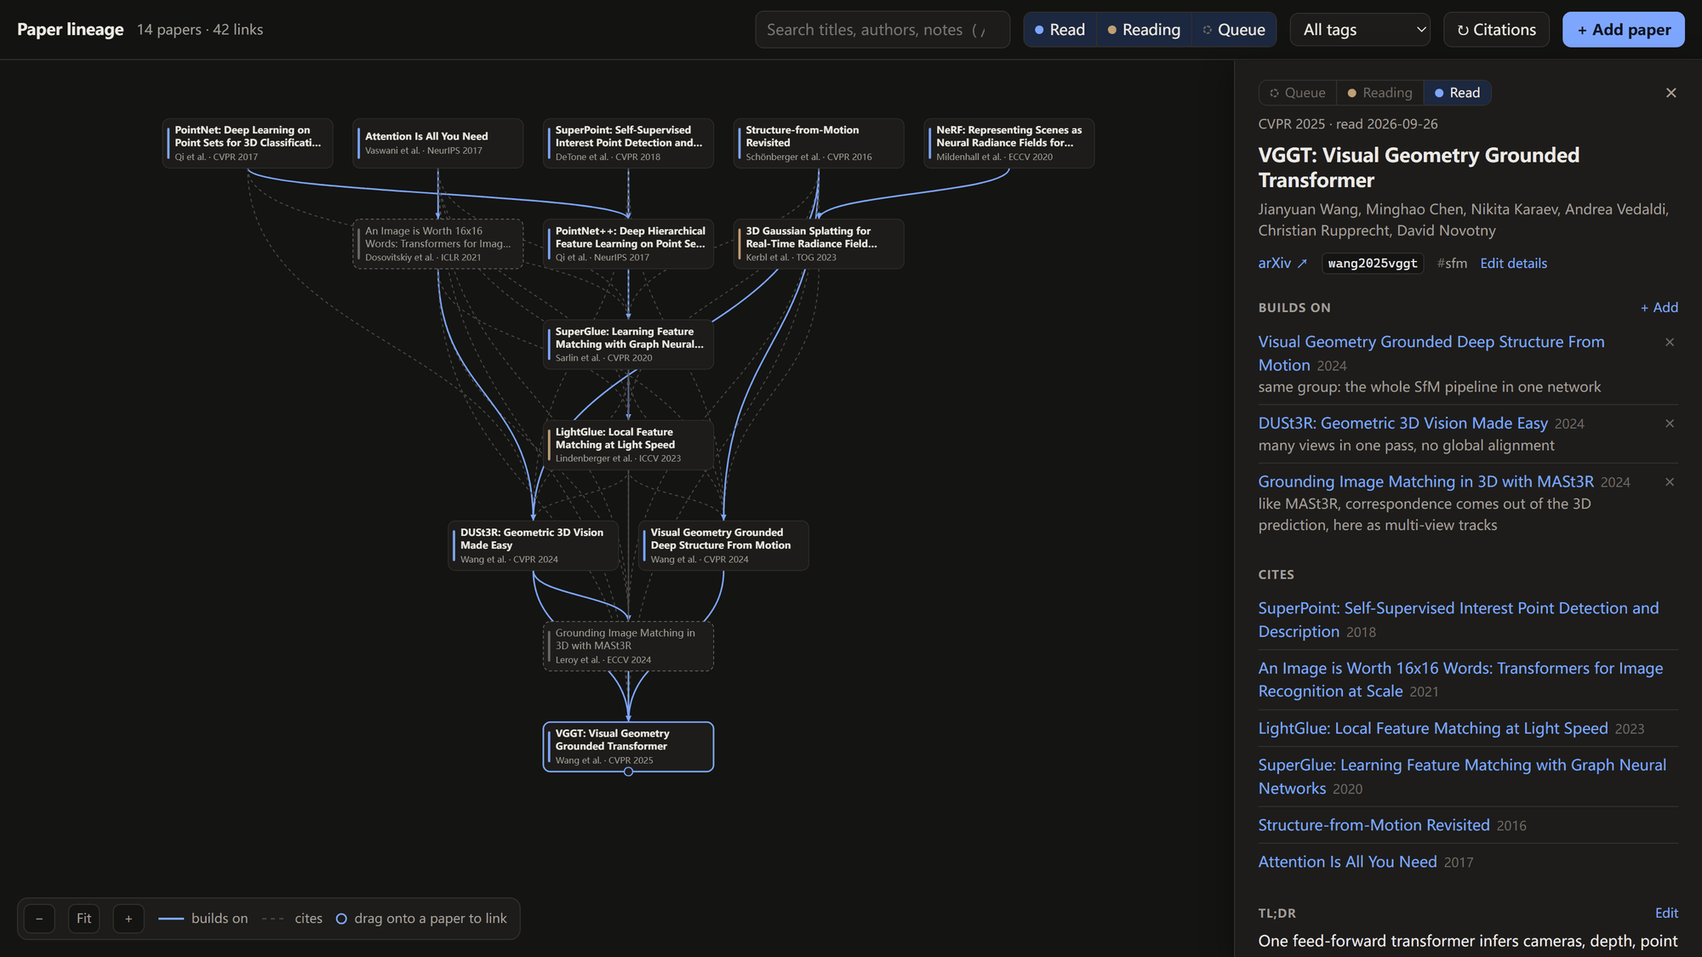
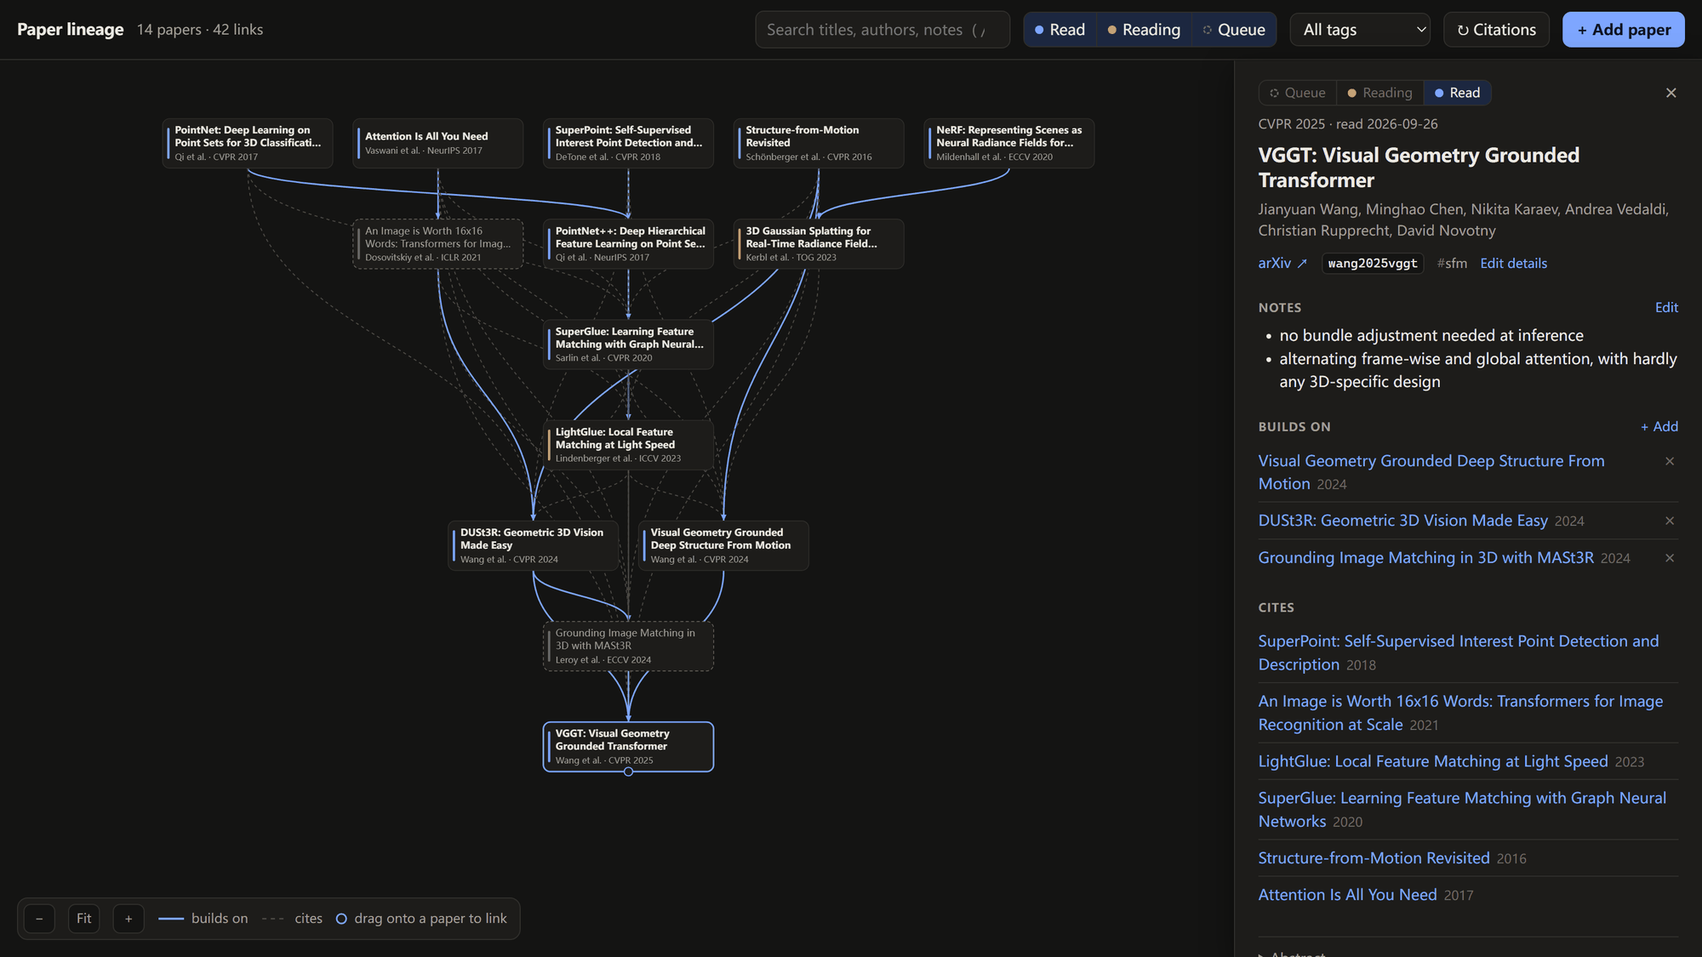
Link without reasons, drop TL;DR, notes first
- builds_on is a plain list of keys (builds_on+=key / builds_on-=key);
  files written by 1.0 still read.
- Dragging a card onto another links at once: the older paper is the
  source, and the toast offers Flip and Undo.
- No TL;DR section; the panel shows notes above the lineage lists.
- The skill leaves notes to the user unless asked.
- README, screenshots and tests updated; version 1.1.0.

Changed region(s): [[0.744, 0.6222, 0.992, 1.0], [0.744, 0.3111, 0.992, 0.5911], [0.961, 0.4356, 0.992, 0.4667]]

diff --git a/pp.html b/pp.html
@@ -120,9 +120,6 @@ aside h3 { display: flex; align-items: baseline; justify-content: space-between;
 .rel li { display: grid; grid-template-columns: 1fr auto; gap: 0 8px; padding: 6px 0; border-top: 1px solid var(--line); }
 .rel li:first-child { border-top: 0; }
 .rel .yr { margin-left: 6px; color: var(--faint); font-size: 12px; font-variant-numeric: tabular-nums; }
-.rel .why { display: block; color: var(--muted); font-size: 13px; }
-.rel .why[data-act] { cursor: text; border-radius: 4px; }
-.rel .why[data-act]:hover { color: var(--ink); background: var(--bg); }
 .x { align-self: start; border: 0; background: none; padding: 0 2px; color: var(--faint); font-size: 17px; line-height: 1.2; cursor: pointer; }
 .x:hover { color: var(--danger); }
 .notes p, .notes ul, .notes ol, .notes blockquote { margin: 6px 0; }
@@ -289,7 +286,6 @@ function build(data) {
   }
   edges.forEach(e => {
     e.el = el('path', {class: e.kind === 'builds_on' ? 'edge bo' : 'edge', d: curve(e)}, $('#edges'));
-    if (e.why) el('title', {}, e.el).textContent = e.why;
   });
   nodes.forEach(n => {
     const g = n.el = el('g', {class: 'node ' + n.status}, $('#nodes'));
@@ -495,13 +491,13 @@ function md(src) {
 function sections(n) {  // [[heading, field, text], ...] of the markdown body
   const p = n.body.replace(/^\s*# .*\n?/, '').split(/^## +(.*)$/m), out = [];
   for (let i = 1; i < p.length; i += 2) out.push([p[i].trim(), fold(p[i]), (p[i + 1] || '').trim()]);
-  if (EDIT) for (const [f, h] of [['tldr', 'TL;DR'], ['notes', 'Notes']]) {  // always offer these two
+  if (EDIT && !out.some(s => s[1] === 'notes')) {  // always offer a Notes section
     const i = out.findIndex(s => s[1] === 'abstract');
-    if (!out.some(s => s[1] === f)) out.splice(i < 0 ? out.length : i, 0, [h, f, '']);
+    out.splice(i < 0 ? out.length : i, 0, ['Notes', 'notes', '']);
   }
   return [p[0].trim(), out];
 }
-function notes(n) {
+function notes(n) {  // -> [html of the notes, html of the abstract]
   const [lead, secs] = sections(n);
   let html = md(lead), abstract = '', any = false;
   for (const [h, f, c] of secs) {
@@ -513,22 +509,19 @@ function notes(n) {
       : `<p class="placeholder" data-act="edit" data-field="${esc(f)}">Add ${esc(h)}…</p>`}</section>`;
   }
   if (!any && !EDIT) html = `<p class="empty">No notes yet. <code>pp set ${esc(n.id)} notes+="…"</code></p>`;
-  return html + abstract;
+  return [html, abstract];
 }
 function show(n, {keep = false} = {}) {
   const top = panel.scrollTop;
   sel = n || null; selId = sel && sel.id;
   history.replaceState(null, '', n ? '#' + n.id : location.pathname + location.search);
   if (!n) { panel.classList.remove('open'); return update(); }
-  const bo = (e, other) => {
-    const act = EDIT ? ` data-act="why" data-from="${esc(e.a.id)}" data-to="${esc(e.b.id)}"` : '';
-    const why = e.why || (EDIT ? '<i>add a reason</i>' : '');
-    return item(other, why ? `<span class="why"${act}>${e.why ? esc(e.why) : why}</span>` : '',
-      EDIT ? `<button class="x" data-act="unlink" data-from="${esc(e.a.id)}" data-to="${esc(e.b.id)}" title="Remove this link">&times;</button>` : '');
-  };
+  const bo = (e, other) => item(other, '',
+    EDIT ? `<button class="x" data-act="unlink" data-from="${esc(e.a.id)}" data-to="${esc(e.b.id)}" title="Remove this link">&times;</button>` : '');
   const item = (m, extra = '', x = '') => `<li><div><a href="#${esc(m.id)}" data-go="${esc(m.id)}">${esc(m.title)}</a><span class="yr">${esc(m.year || '')}</span>${extra}</div>${x}</li>`;
   const sec = (title, list, action = '') => list.length || action ? `<h3>${title}${action}</h3><ul>${list.join('')}</ul>` : '';
   const kind = (es, k) => es.filter(e => e.kind === k);
+  const [text, abstract] = notes(n);
   const authors = n.authors.length > 8 ? n.authors.slice(0, 8).join(', ') + `, +${n.authors.length - 8}` : n.authors.join(', ');
   const status = EDIT
     ? `<div class="seg small" role="group" aria-label="Status">${['queue', 'reading', 'read'].map(s =>
@@ -540,8 +533,9 @@ function show(n, {keep = false} = {}) {
     <h2>${esc(n.title)}</h2>
     <div class="authors">${esc(authors)}</div>
     <div class="links">${n.url ? `<a href="${esc(n.url)}" target="_blank" rel="noopener">${n.arxiv ? 'arXiv' : n.doi ? 'DOI' : 'Link'} &#8599;</a>` : ''}<code>${esc(n.id)}</code>${n.tags.map(t => `<span class="tag">${esc(t)}</span>`).join('')}${EDIT ? '<button class="link-btn" data-act="details">Edit details</button>' : ''}</div>
+    <div class="notes">${text}</div>
     <div class="rel">${sec('Builds on', kind(n.in, 'builds_on').map(e => bo(e, e.a)), EDIT ? '<button class="link-btn" data-act="add-link">+ Add</button>' : '')}${sec('Built upon by', kind(n.out, 'builds_on').map(e => bo(e, e.b)))}${sec('Cites', kind(n.in, 'cites').map(e => item(e.a)))}${sec('Cited by', kind(n.out, 'cites').map(e => item(e.b)))}</div>
-    <div class="notes">${notes(n)}</div>
+    ${abstract ? `<div class="notes">${abstract}</div>` : ''}
     ${EDIT ? '<div class="danger-zone"><button class="btn danger" data-act="delete">Delete paper</button></div>' : ''}`;
   panel.classList.add('open');
   panel.scrollTop = keep ? top : 0;
@@ -563,7 +557,6 @@ panel.addEventListener('click', e => {
   else if (d.act === 'save') saveSection(n, d.field);
   else if (d.act === 'details') editDetails(n);
   else if (d.act === 'add-link') addLink(n);
-  else if (d.act === 'why') linkPapers(from, to);
   else if (d.act === 'unlink') unlink(from, to);
   else if (d.act === 'delete') remove(n);
 });
@@ -587,14 +580,14 @@ async function api(op, body = {}) {
   } finally { document.body.classList.remove('busy'); }
 }
 let toastTimer = 0;
-function toast(msg, {error = false, action, onAction} = {}) {
+function toast(msg, {error = false, actions = []} = {}) {  // actions: [[label, fn], ...]
   const t = $('#toast');
   t.className = error ? 'error' : '';
-  t.innerHTML = `<span>${esc(msg)}</span>` + (action ? `<button>${esc(action)}</button>` : '');
-  if (action) t.querySelector('button').onclick = () => { t.hidden = true; onAction(); };
+  t.innerHTML = `<span>${esc(msg)}</span>` + actions.map(([label]) => `<button>${esc(label)}</button>`).join('');
+  t.querySelectorAll('button').forEach((b, i) => b.onclick = () => { t.hidden = true; actions[i][1](); });
   t.hidden = false;
   clearTimeout(toastTimer);
-  toastTimer = setTimeout(() => t.hidden = true, error ? 9000 : action ? 7000 : 4000);
+  toastTimer = setTimeout(() => t.hidden = true, error ? 9000 : actions.length ? 7000 : 4000);
 }
 function ask({title, text = '', fields = [], ok = 'Save', danger = false}) {
   const d = $('#dlg');
@@ -659,37 +652,30 @@ async function editDetails(n) {
     if (await api('mv', {key: n.id, new: key}) && p[n.id]) { p[key] = p[n.id]; delete p[n.id]; storePos(p); }
   }
 }
-async function linkPapers(a, b) {  // drag from a onto b, or edit an existing reason
-  const short = m => m.title.length > 48 ? m.title.slice(0, 46) + '…' : m.title;
-  const old = [...b.in, ...a.in].find(e => e.kind === 'builds_on' && (e.a === a && e.b === b || e.a === b && e.b === a));
-  const newerFirst = old ? old.b === a : (a.year || 0) > (b.year || 0);
-  const v = await ask({title: old ? 'Edit link' : 'New lineage link', ok: old ? 'Save' : 'Link', fields: [
-    {name: 'dir', label: 'Direction', value: newerFirst ? 'ab' : 'ba', options: [
-      ['ba', `“${short(b)}” builds on “${short(a)}”`], ['ab', `“${short(a)}” builds on “${short(b)}”`]]},
-    {name: 'why', label: 'Why? One short reason', value: old?.why || '', required: true,
-     placeholder: 'adds X to Y · replaces A with B'}]});
-  if (!v) return;
-  const [src, dst] = v.dir === 'ba' ? [a, b] : [b, a];
-  const pairs = [`builds_on.${src.id}=${v.why.trim()}`];
-  if (old && old.b !== dst) {  // direction flipped: drop the old link first
-    await api('set', {key: old.b.id, pairs: [`builds_on.${old.a.id}=`]});
-  }
-  api('set', {key: dst.id, pairs});
+const short = m => m.title.length > 48 ? m.title.slice(0, 46) + '…' : m.title;
+async function linkPapers(a, b) {  // a was dragged onto b: the older one is the source, or else a
+  const old = edges.find(e => e.kind === 'builds_on' && (e.a === a && e.b === b || e.a === b && e.b === a));
+  const [src, dst] = old ? [old.a, old.b] : (a.year || 0) > (b.year || 0) ? [b, a] : [a, b];
+  if (!old && !await api('set', {key: dst.id, pairs: [`builds_on+=${src.id}`]})) return;
+  toast(`${old ? 'Already linked' : 'Linked'}: “${short(dst)}” builds on “${short(src)}”`, {actions: [
+    ['Flip', () => flip(src.id, dst.id)],
+    ...old ? [] : [['Undo', () => api('set', {key: dst.id, pairs: [`builds_on-=${src.id}`]})]]]});
+}
+async function flip(src, dst) {  // "dst builds on src" becomes "src builds on dst"
+  if (await api('set', {key: dst, pairs: [`builds_on-=${src}`]})) api('set', {key: src, pairs: [`builds_on+=${dst}`]});
 }
 async function addLink(n) {
   const taken = new Set(n.in.filter(e => e.kind === 'builds_on').map(e => e.a));
   const others = nodes.filter(m => m !== n && !taken.has(m)).sort((a, b) => a.title.localeCompare(b.title));
   if (!others.length) return toast('No other papers to link to.');
   const v = await ask({title: 'This paper builds on…', ok: 'Link', fields: [
-    {name: 'src', label: 'Paper', options: others.map(m => [m.id, `${m.title}${where(m) ? ` (${where(m)})` : ''}`])},
-    {name: 'why', label: 'Why? One short reason', required: true, placeholder: 'adds X to Y · replaces A with B'}]});
-  if (v) api('set', {key: n.id, pairs: [`builds_on.${v.src}=${v.why.trim()}`]});
+    {name: 'src', label: 'Paper', options: others.map(m => [m.id, `${m.title}${where(m) ? ` (${where(m)})` : ''}`])}]});
+  if (v) api('set', {key: n.id, pairs: [`builds_on+=${v.src}`]});
 }
 async function unlink(a, b) {
-  const why = b.in.find(e => e.kind === 'builds_on' && e.a === a)?.why || '?';
-  if (await api('set', {key: b.id, pairs: [`builds_on.${a.id}=`]}))
-    toast(`Removed: “${b.title}” builds on “${a.title}”`, {action: 'Undo',
-      onAction: () => api('set', {key: b.id, pairs: [`builds_on.${a.id}=${why}`]})});
+  if (await api('set', {key: b.id, pairs: [`builds_on-=${a.id}`]}))
+    toast(`Removed: “${short(b)}” builds on “${short(a)}”`, {actions: [
+      ['Undo', () => api('set', {key: b.id, pairs: [`builds_on+=${a.id}`]})]]});
 }
 async function remove(n) {
   const ok = await ask({title: 'Delete this paper?', ok: 'Delete', danger: true,

diff --git a/test.py b/test.py
@@ -27,14 +27,14 @@ S2_POINTNET = {"paperId": "d997", "title": "PointNet", "year": 2016, "abstract":
 
 def paper(key, title, year=2020, body="", **meta):
     pp.save(key, {"title": title, "authors": ["Ada Lovelace"], "year": year, "tags": [], "status": "queue", **meta},
-            f"# {title}\n\n## TL;DR\n\n\n## Notes\n\n{body}\n## Abstract\n\nAn abstract.\n")
+            f"# {title}\n\n## Notes\n\n{body}\n## Abstract\n\nAn abstract.\n")
 
 
 def reset():
     shutil.rmtree(pp.LIB, ignore_errors=True)
     paper("old2016base", "Base Method", 2016)
     paper("new2020next", "Next Method: Better", 2020, cites=["old2016base"],
-          builds_on={"old2016base": "adds X to the base"}, body="- see [write-up](../write-up.md)\n")
+          builds_on=["old2016base"], body="- see [write-up](../write-up.md)\n")
     (TMP / "write-up.md").write_text("my write-up", encoding="utf-8")
     (TMP / "secret.txt").write_text("not linked", encoding="utf-8")
 
@@ -47,9 +47,9 @@ def run(fn, **kw):
 
 class Format(unittest.TestCase):
     def test_roundtrip(self):
-        meta = {"title": "A: B #1", "authors": ["Charles R. Qi", "O'Brien, Jr."], "year": 2017, "venue": "CVPR",
+        meta = {"title": "A: B #1", "authors": ["Charles R. Qi", "O'Brien, Jr."], "year": 2017, "venue": "会议: # not a comment",
                 "arxiv": "2001.01230", "doi": "10.1109/CVPR.2017.16", "tags": [], "status": "read",
-                "read": "2026-09-25", "cites": ["x2016y"], "builds_on": {"x2016y": "把 A 变成 B: # not a comment"}}
+                "read": "2026-09-25", "cites": ["x2016y"], "builds_on": ["x2016y"]}
         self.assertEqual(pp.parse(pp.dump(meta, "# T\n\nbody\n")), (meta, "# T\n\nbody\n"))
 
     def test_hand_written_yaml(self):
@@ -117,9 +117,8 @@ class Library(unittest.TestCase):
 
     def test_sections(self):
         lib = pp.papers()
-        pp.assign("old2016base", ["tldr=One line.", "notes+=first", "notes+=- second", "notes+=third"], lib)
+        pp.assign("old2016base", ["notes+=first", "notes+=- second", "notes+=third"], lib)
         body = pp.papers()["old2016base"][1]
-        self.assertEqual(pp.section(body, "tldr"), "One line.")
         self.assertEqual(pp.section(body, "notes"), "- first\n- second\n- third")
         self.assertEqual(pp.section(body, "abstract"), "An abstract.")
         pp.assign("old2016base", ["notes="], lib)
@@ -132,20 +131,22 @@ class Library(unittest.TestCase):
         self.assertEqual((m["tags"], m["status"], m["read"], m["year"]), (["b", "c"], "read", pp.TODAY, 2017))
         self.assertTrue(body.startswith("# Renamed\n"))
         self.assertRaises(pp.Fail, pp.assign, "old2016base", ["status=done"], lib)
-        self.assertRaises(pp.Fail, pp.assign, "old2016base", ["builds_on.old=self"], lib)
+        self.assertRaises(pp.Fail, pp.assign, "old2016base", ["builds_on+=old"], lib)
 
     def test_builds_on(self):
         lib = pp.papers()
-        pp.assign("new2020next", ["builds_on.old=new reason"], lib)
-        self.assertEqual(pp.papers()["new2020next"][0]["builds_on"], {"old2016base": "new reason"})
-        pp.assign("new2020next", ["builds_on.old="], lib)
+        pp.assign("new2020next", ["builds_on-=old"], lib)
         self.assertNotIn("builds_on", pp.papers()["new2020next"][0])
+        pp.assign("new2020next", ["builds_on+=old,old2016base"], lib)
+        self.assertEqual(pp.papers()["new2020next"][0]["builds_on"], ["old2016base"])
+        paper("mid2018v1", "Written by pp 1.0", 2018, builds_on={"old2016base": "a reason"})  # the 1.0 format
+        self.assertEqual(pp.builds_on(pp.papers()["mid2018v1"][0]), ["old2016base"])
 
     def test_rename_and_remove(self):
         lib = pp.papers()
         pp.rename("old2016base", "old2017base", lib)
         m = pp.papers()["new2020next"][0]
-        self.assertEqual((m["cites"], m["builds_on"]), (["old2017base"], {"old2017base": "adds X to the base"}))
+        self.assertEqual((m["cites"], m["builds_on"]), (["old2017base"], ["old2017base"]))
         pp.remove("old2017base", lib)
         self.assertEqual(list(pp.papers()), ["new2020next"])
         self.assertFalse({"cites", "builds_on"} & set(pp.papers()["new2020next"][0]))

diff --git a/SKILL.md b/SKILL.md
@@ -1,40 +1,38 @@
 ---
 name: pp
-description: Keep the user's paper library with the `pp` CLI (plain text, one Markdown file per paper). Use whenever the user mentions reading, finishing or wanting to read a paper, shares an arXiv/DOI/paper link to save, wants notes on a paper, asks what they have read on a topic or how papers relate (lineage), or needs BibTeX.
+description: Keep the user's paper library with the `pp` CLI (plain text, one Markdown file per paper). Use whenever the user mentions reading, finishing or wanting to read a paper, shares an arXiv/DOI/paper link to save, asks what they have read or noted on a topic or how papers relate (lineage), or needs BibTeX.
 ---
 
 # Paper library (`pp`)
 
-Every paper is `$PP_DIR/<key>.md` (default `~/papers`): YAML front matter (metadata, links) plus Markdown sections (`## TL;DR`, `## Notes`, `## Abstract`). `pp -h` lists everything.
+Every paper is `$PP_DIR/<key>.md` (default `~/papers`): YAML front matter (metadata, links) plus Markdown (`## Notes`, `## Abstract`). `pp -h` lists everything.
 
 | Command | Does |
 |---|---|
 | `pp add <arxiv-id\|doi\|url\|title>... [-s queue\|reading\|read] [-t a,b]` | fetch metadata, create files, print keys (title and venue on stderr) |
 | `pp ls [-s status] [-t tag]` | TSV: key, year, status, tags, title (key order; pipe to `sort` / `grep`) |
-| `pp get <field> [key...]` | read `path`, `bib`, `url`, `tldr`, `notes`, `abstract`, `title`, `builds_on`, any field; no key = all papers |
-| `pp set <key> field=value...` | write fields and sections (below); `-` as a value reads stdin |
+| `pp get <field> [key...]` | read `path`, `bib`, `url`, `notes`, `abstract`, `title`, `builds_on`, any field; no key = all papers |
+| `pp set <key> field=value...` | write fields (below); `-` as a value reads stdin |
 | `pp mv <key> <new-key>` | rename; references in other papers follow |
 | `pp link` | fetch citations between library papers; fill in published venue and year |
 | `pp graph` | serve the editable lineage page (blocks until Ctrl+C) |
 
-`set` forms: `status=read` (stamps the read date), `tags+=a,b`, `tags-=a`, `tldr="one sentence"`, `notes+="one bullet"` (appends; a bare line becomes `- line`), `notes=-` (replace from stdin), `builds_on.<key>="why"` (an empty value removes the link), `year=2017 venue=CVPR`.
+`set` forms: `status=read` (stamps the read date), `tags+=a,b`, `tags-=a`, `builds_on+=<key>,<key>`, `builds_on-=<key>`, `year=2017 venue=CVPR`, `notes+="a line"` (appends; a bare line becomes `- line`), `notes=-` (replace from stdin).
 
 ## Rules
 
 - **Never write title, authors, year or venue from memory.** Find the arXiv id or DOI (search the web if needed), let `pp add` fetch the metadata, and check that the title it prints is the paper the user meant.
-- **Notes are the user's voice.** Record what *they* said or thought, in their language, as terse bullets via `notes+=`. No generic summaries; if they gave no takeaway, ask. You may write `tldr`: one sentence on what the paper claims, grounded in its abstract (`pp get abstract <key>`).
-- **`builds_on` is a claim about ideas**: only between papers in the library, one short reason each ("adds X to Y", "replaces A with B"), grounded in the abstracts. Propose links and let the user confirm, unless they told you the relation.
+- **Notes belong to the user.** Never write, summarize into or tidy `## Notes` on your own, including after "I read X". Write there only when the user asks you to, in their words. Reading notes to answer a question is fine.
+- **`builds_on` says one paper's idea comes from another**, both in the library. Ground it in the abstracts (`pp get abstract <key>`); propose links and add them once the user agrees, unless they told you the relation.
 - **`cites` is machine-managed** by `pp link`. Don't edit it.
 - **Keys** (`qi2017pointnet`) are permanent IDs; commands accept any unique prefix or substring of a key or title (`vggt`, `mast3r`). Auto keys use the title's first word, so when a paper is known by another name (VGGSfM, MASt3R), rename it right after adding: `pp mv wang2024visual wang2024vggsfm`.
-- Change files through `pp set`, not by hand, so the format stays parseable. The user may be editing the same paper in the lineage page; re-read with `pp get` before replacing a whole section.
+- Change files through `pp set`, not by hand, so the format stays parseable.
 
 ## "I read / finished X"
 
 1. `pp add <id> -s read [-t tags]`. If it says "already in library": `pp set <key> status=read`.
-2. `pp set <key> tldr="..."`, grounded in the abstract.
-3. Record the user's takeaways: `pp set <key> notes+="..."` per bullet, or `notes=-` with a heredoc. If they keep a longer write-up elsewhere, add a bullet linking it (`[write-up](../path/to/file.md)`, relative to the library folder, or an absolute path).
-4. `pp ls`, compare with the library (`pp get tldr` helps), and propose `builds_on` links in both directions: `pp set <key> builds_on.<older>="why"` / `pp set <newer> builds_on.<key>="why"`.
-5. `pp link`. If it prints a `pp mv` hint (Semantic Scholar corrected the year in a key), apply it. An open lineage page picks up every change by itself.
+2. `pp ls`, compare with the library, and propose `builds_on` links in both directions: `pp set <key> builds_on+=<older>` / `pp set <newer> builds_on+=<key>`.
+3. `pp link`. If it prints a `pp mv` hint (Semantic Scholar corrected the year in a key), apply it. An open lineage page picks up every change by itself.
 
 ## Other requests
 
@@ -42,8 +40,9 @@ Every paper is `$PP_DIR/<key>.md` (default `~/papers`): YAML front matter (metad
 |---|---|
 | Save for later | `pp add <id> -s queue` |
 | Started reading | `pp set <key> status=reading` |
+| "Note that ..." about a paper | `pp set <key> notes+="..."` in their words. The user may be editing the same notes in the page, so `pp get notes <key>` first before replacing them with `notes=-`. |
 | What have I read on X / where did I note X | `grep -ril "X" "${PP_DIR:-$HOME/papers}"`, then `pp get notes <keys>`; `pp ls -s read`, `pp ls -t <tag>` |
-| See or edit the lineage | Tell the user to run `pp graph`. It blocks, so don't run it in the foreground yourself; if asked, run it in the background. The page edits status, details, TL;DR and notes, adds, deletes and links papers (drag a card's dot onto another card), and lets cards be dragged around. |
+| See or edit the lineage | Tell the user to run `pp graph`. It blocks, so don't run it in the foreground yourself; if asked, run it in the background. The page edits status, details and notes, adds, deletes and links papers (drag a card's dot onto another card: the older paper becomes the source, and Flip reverses it), and lets cards be dragged around. |
 | BibTeX | `pp get bib <key>...`, or `pp get bib > refs.bib` for everything |
 
 ## When metadata is off

diff --git a/README.md b/README.md
@@ -14,9 +14,9 @@ A paper library in plain text.
 ## Features
 
 - Add papers by arXiv id, DOI, URL or title. Metadata comes from arXiv, Semantic Scholar and Crossref, never from memory.
-- Keep a TL;DR, notes, tags and reading status next to the metadata.
-- Citations between your papers are fetched for you. `builds_on` links record your own view of where an idea came from, and why.
-- A local lineage page lays papers out as generations of ideas. Edit notes, details and links in place, and drag one card onto another to link them.
+- Notes are yours. They sit under the metadata with tags and reading status, and your agent leaves them alone unless you ask.
+- Citations between your papers are fetched for you. `builds_on` links record your own view of where an idea came from.
+- A local lineage page lays papers out as generations of ideas. Edit notes and details in place, and drag one card onto another to link them.
 - BibTeX for any set of papers.
 
 ## Install
@@ -59,8 +59,8 @@ short summary of what you changed.
 |---|---|
 | `pp add <id>... [-s status] [-t tags]` | add papers by arXiv id, DOI, URL or title |
 | `pp ls [-s status] [-t tag]` | list papers |
-| `pp get <field> [key...]` | print `path`, `bib`, `url`, `tldr`, `notes` or any field; all papers if no key |
-| `pp set <key> field=value...` | `status=read`, `tags+=a,b`, `tldr=...`, `notes+=...`, `builds_on.<key>=why` |
+| `pp get <field> [key...]` | print `path`, `bib`, `url`, `notes` or any field; all papers if no key |
+| `pp set <key> field=value...` | `status=read`, `tags+=a,b`, `notes+=...`, `builds_on+=<key>` |
 | `pp mv <key> <new-key>` | rename a paper and every reference to it |
 | `pp link` | fetch citations between your papers and fill in venues |
 | `pp graph [-o file.html]` | serve the editable lineage page, or write a snapshot |
@@ -81,12 +81,10 @@ arxiv: "1706.03762"
 tags: [nlp]
 status: read
 cites: [bahdanau2014neural]
-builds_on:
-  bahdanau2014neural: "attention becomes the whole model"
+builds_on: [bahdanau2014neural]
 ---
 # Attention Is All You Need
 
-## TL;DR
 ## Notes
 ## Abstract
 ```
